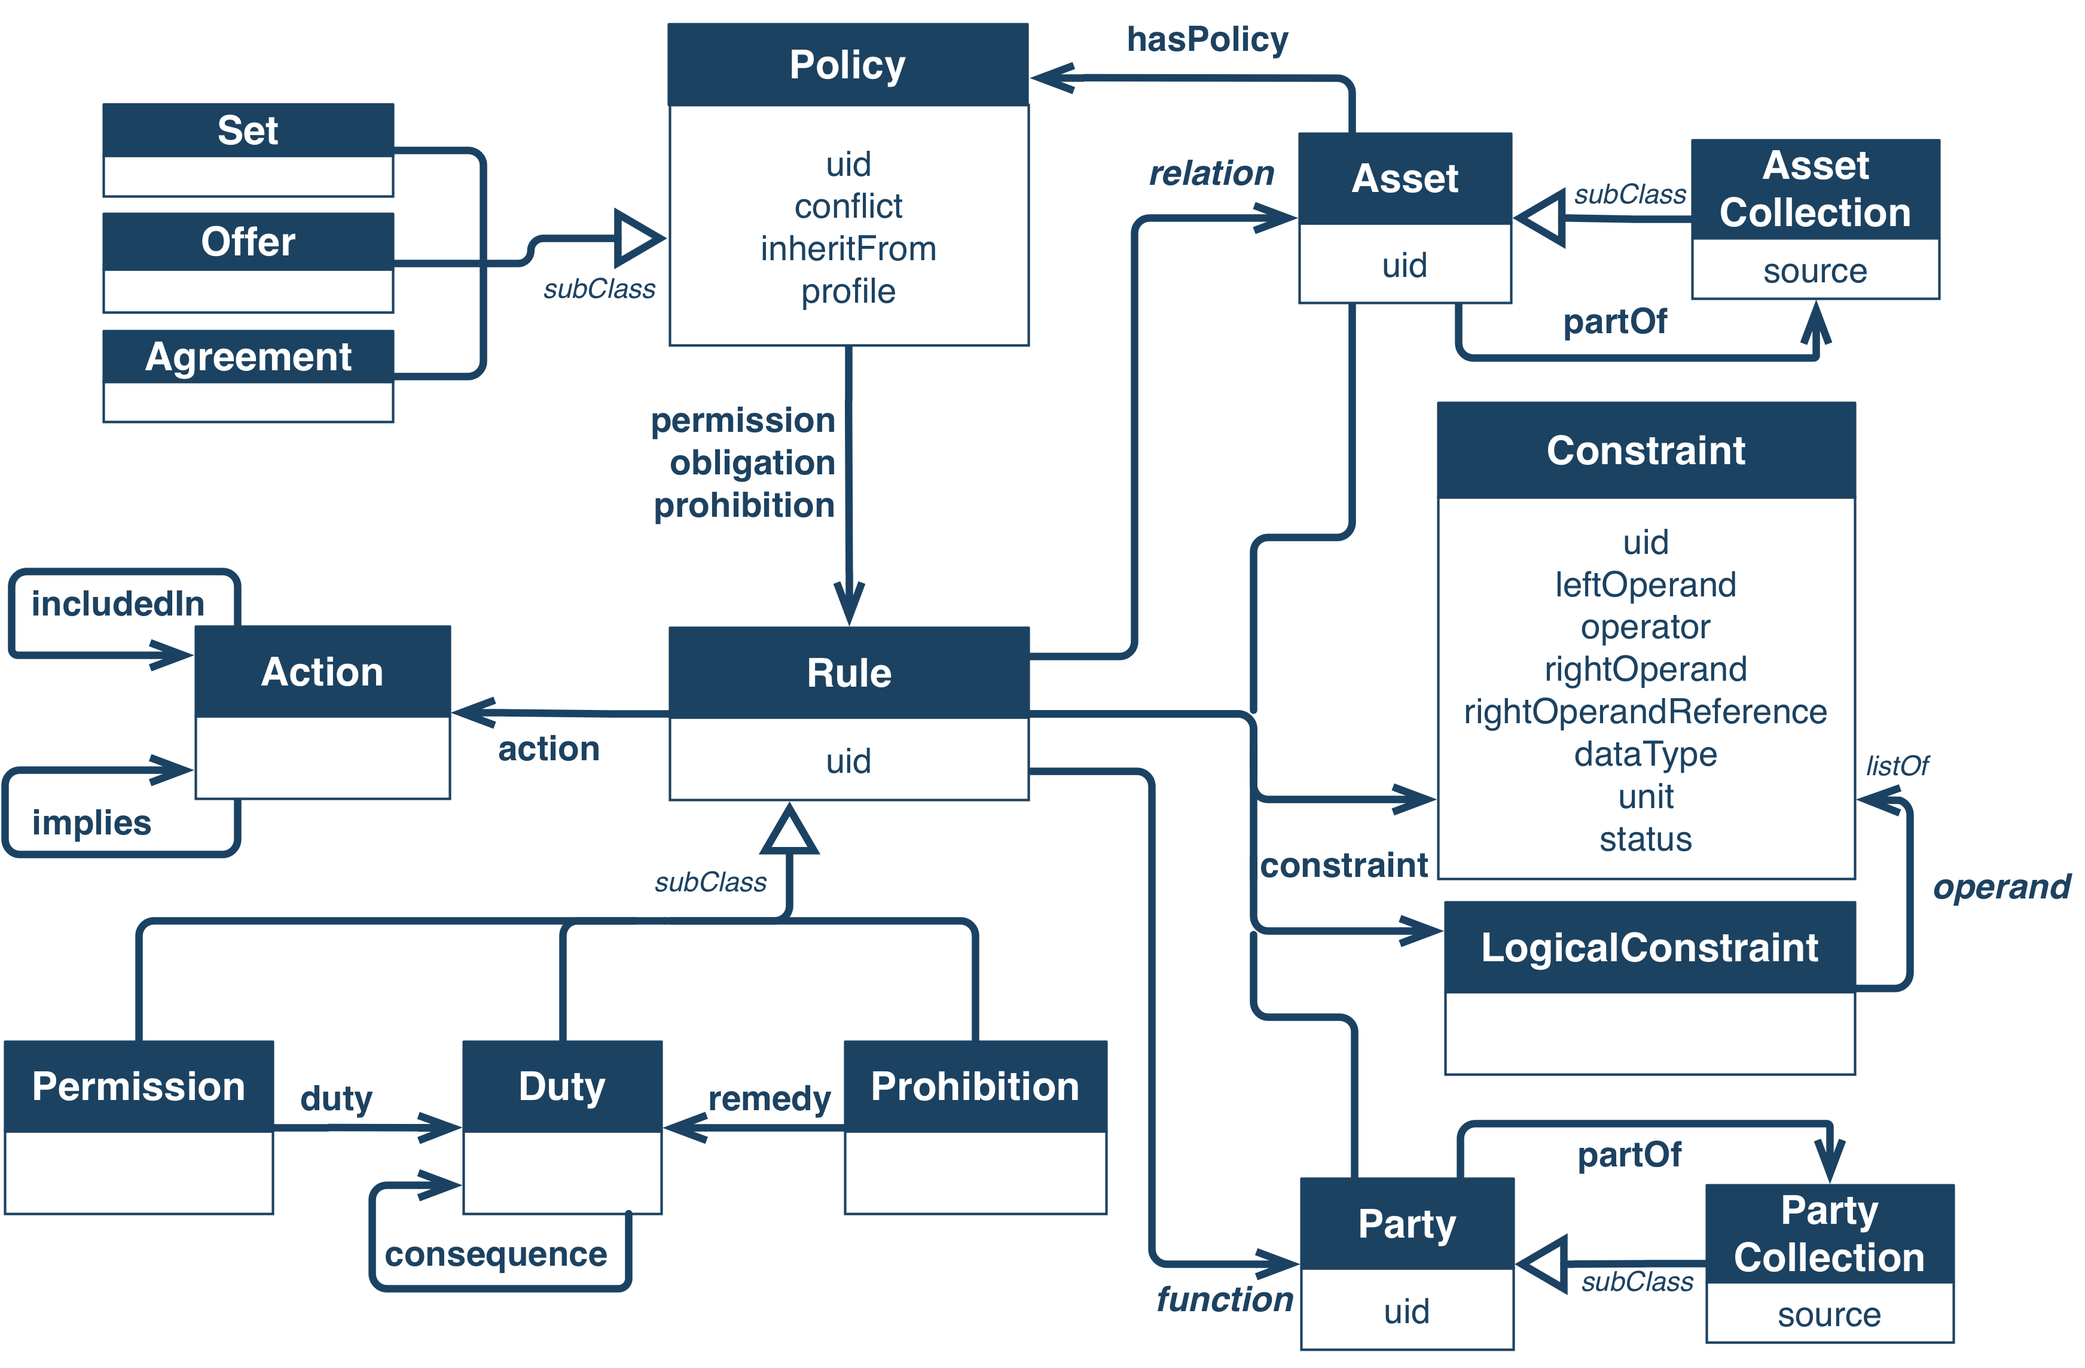
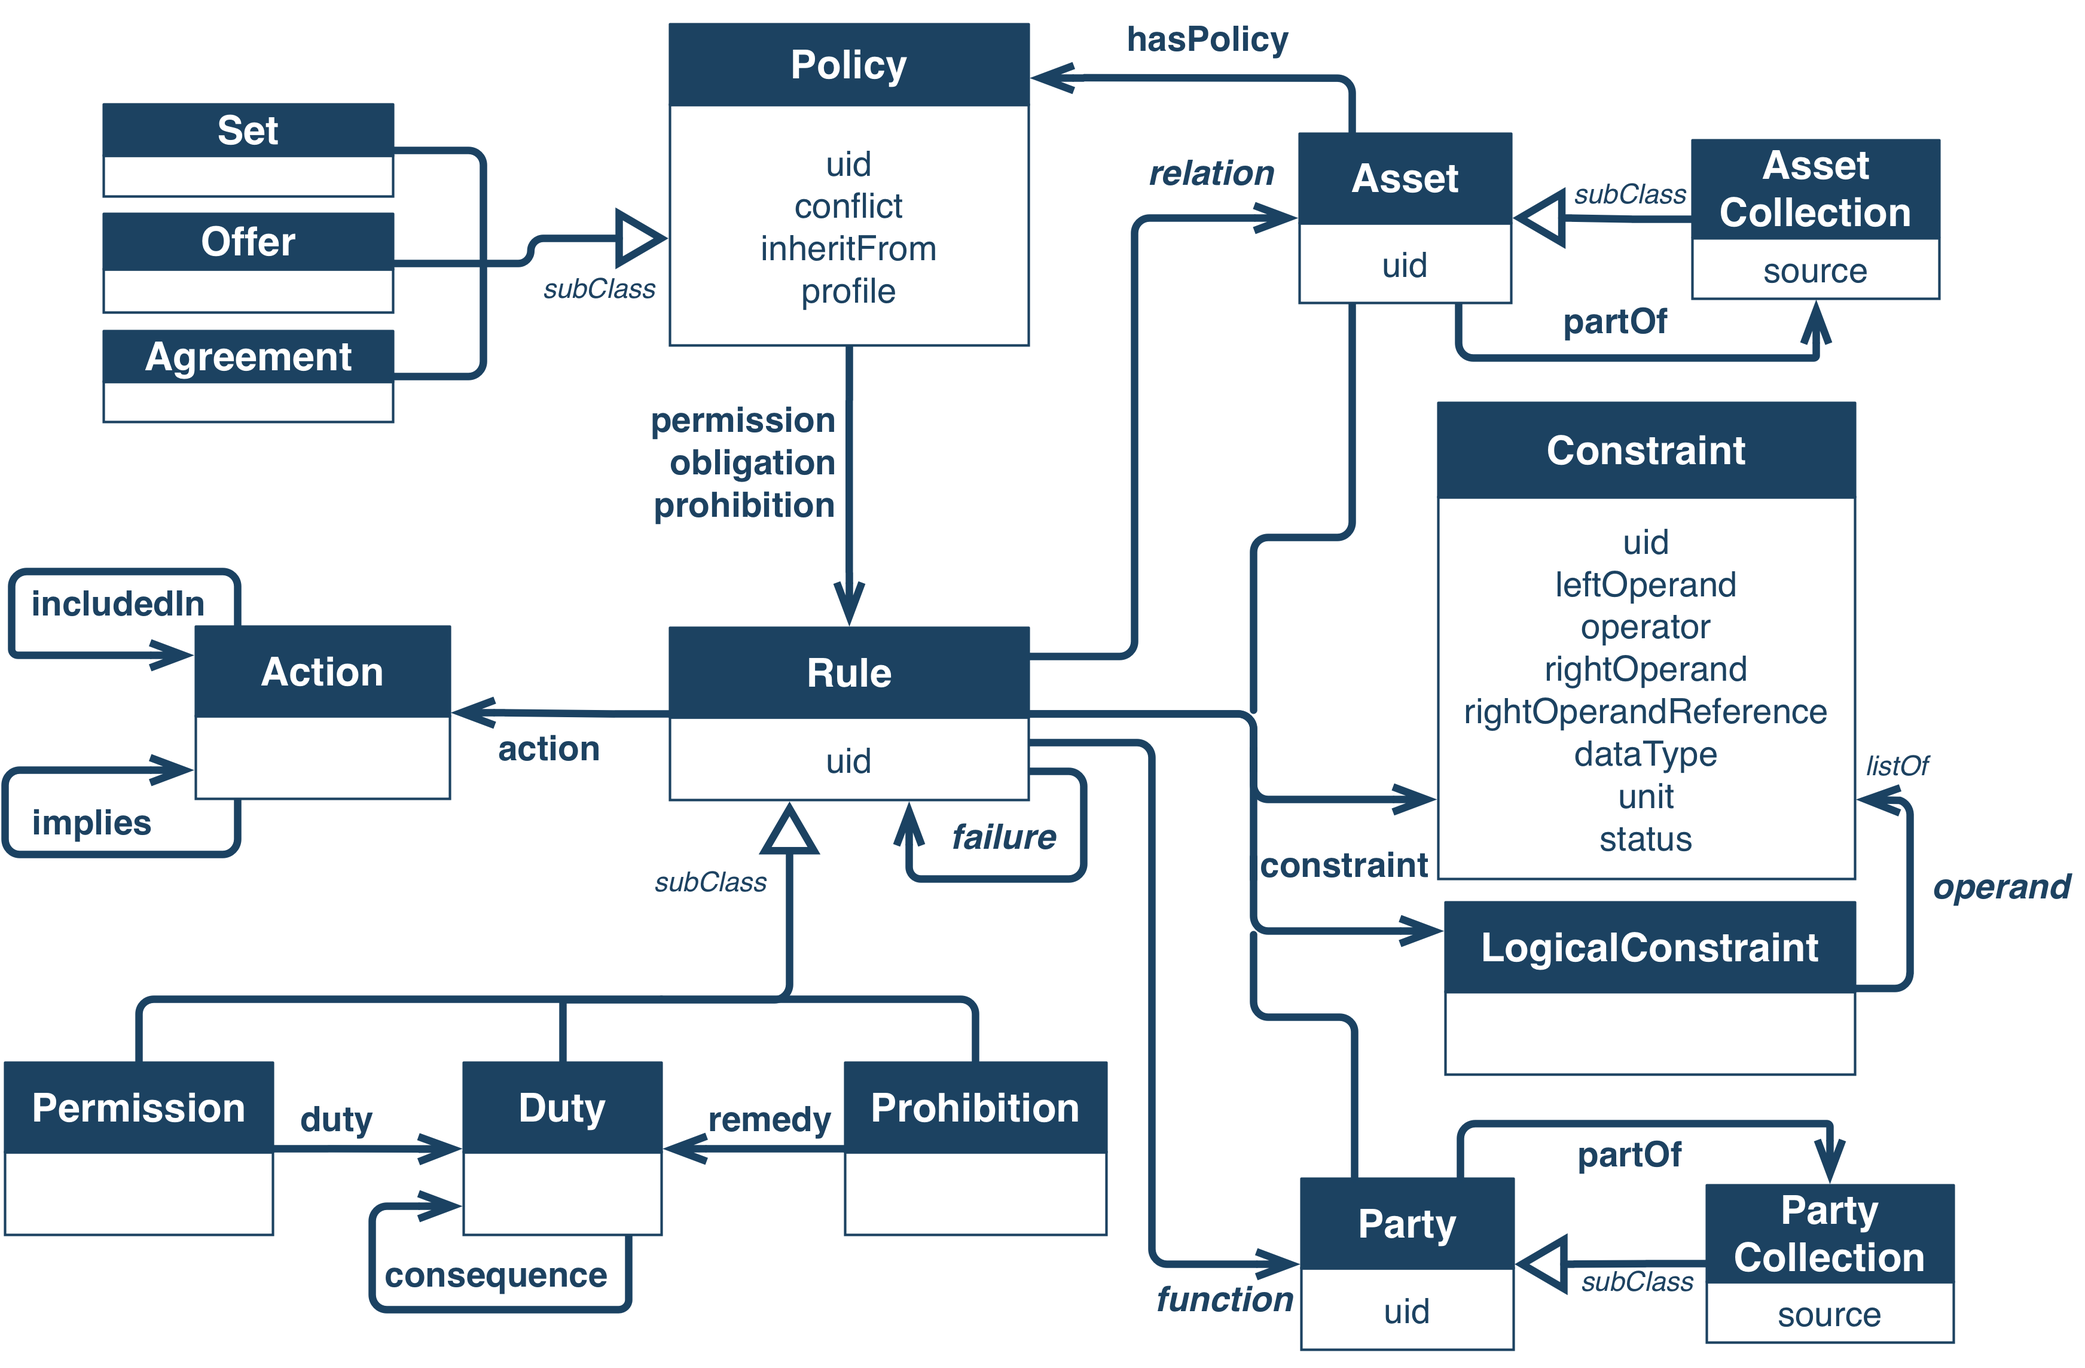
Added Failure property #209

Changed region(s): [[0.0, 0.5278, 0.5575, 0.9624], [0.4646, 0.683, 0.4956, 0.714], [0.4026, 0.031, 0.4336, 0.0621]]

diff --git a/model/index.html b/model/index.html
@@ -136,14 +136,16 @@
     <li><code>Constraint/LogicalConstraint</code> - A boolean/logical expression that refines the applicability of a Rule, or the context of a Party or Asset collection.</li>
     </ul>
 
-<p>The ODRL Information Model has two abstract properties between Rule and the Asset and Party class. These two properties (<em>relation</em> and <em>function</em>) are designed to represent the <em>conceptual</em> relation between the two classes. In serialised ODRL expressions, they MUST be realised as subtypes of their respective parent property.   The figure below shows the ODRL Properties Model with subtypes.</p>
+<p>The ODRL Information Model includes property relationships between the classes. Most are explictly named properties and some are abstract properties (specifically, <em>relation</em>, <em>function</em>, <em>operand</em>, and <em>failure</em>). The abstract properties are generic parent properties that are designed to be represented by  child properties (sub-types) with explicit semantics. </p>
+
+	<p>For example, the two properties <em>relation</em> and <em>function</em> are designed to represent the <em>conceptual</em> relation between the Rule and the Asset and Party classes. In serialised ODRL expressions, they MUST be realised as sub-types of their respective parent property.  The figure below shows the ODRL Properties Model for these two abstract properties.</p>
 
 <figure>
 	<img src="01Properties.svg" alt="ODRL Properties Model" width="800"/>
     <figcaption>ODRL Properties Model (Also available in <a href="01Properties.png">PNG format</a>)</figcaption>
 </figure>
 
-<p>The figure shows the <em>relation</em> property with subtype <strong>target</strong> to express that the Asset is the primary subject of the Rule. The <em>function</em> property has subtype <strong>assigner</strong> to express the Party issuing the Rule, and subtype <strong>assignee</strong> to express the recipient Party of the Rule. 
+<p>The figure shows the <em>relation</em> property with subtype <code>target</code> to express that the Asset is the primary subject of the Rule. The <em>function</em> property has subtype <code>assigner</code> to express the Party issuing the Rule, and subtype <code>assignee</code> to express the recipient Party of the Rule. 
 </p> 
     
     
@@ -645,13 +647,14 @@
 <li>A Rule MUST have one <code>action</code> property for Action.</li>
 	<li>A Rule MAY have none or one <code><em>relation</em></code> sub-properties for Asset.</li>
 	<li>A Rule MAY have none, one or many <code><em>function</em></code> sub-properties for Party.</li>
+	<li>A Rule MAY have none, one or many <code><em>failure</em></code> sub-properties for Rule.</li>
 <li>A Rule MAY have none, one or many <code>constraint</code> properties for Constraint/LogicalConstraint.</li>
 <li>A Rule MAY have none or one <code>uid</code> property identifier (IRI [[!rfc3987]]) to enable the Rule to be referenced by other Rules.</li>
 </ul>
 	
 	<p>Note: The above property cardinalities reflect the normative ODRL Information Model. In some cases, repeat occurrences of some properties are also supported (as described in <a href="#composition">Policy Rule Composition</a> and <a href="#composition-compact">Compact Policy</a>) but the normative atomic Policy is consistent with the above property cardinalities.</p>
 	
-<p>Explicit sub-properties of the abstract <code><em>relation</em></code> and <code><em>function</em></code> properties must be used, the choice depending on the subclass of Rule in question.</p>
+<p>Explicit sub-properties of the abstract <code><em>relation</em></code>, <code><em>relation</em></code> and <code><em>failure</em></code> properties must be used, the choice depending on the subclass of Rule in question.</p>
 
 <p>For a Rule to become effective, all of it's Constraints MUST be satisfied and any applicable relationship to a Duty MUST be fulfilled.</p>
 
@@ -716,7 +719,7 @@
 	<p>Note: The above property cardinalities reflect the normative ODRL Information Model. In some cases, repeat occurrences of some properties are also supported (as described in <a href="#composition">Policy Rule Composition</a> and <a href="#composition-compact">Compact Policy</a>) but the normative atomic Policy is consistent with the above property cardinalities.</p>
 	
 	
-<p>The remedy property expresses an agreed obligation that MUST be fulfilled in the case that the Prohibition has been violated. That is, the remedy property asserts a Duty that must be fulfilled if the Prohibition is exercised.  See the <a href="#duty-prohib">Remedy with a Prohibition</a> section for more details.</p>
+<p>The <code>remedy</code> property (a sub-property of the <code><em>failure</em></code> property) expresses an agreed obligation that MUST be fulfilled in the case that the Prohibition has been violated. That is, the remedy property asserts a Duty that must be fulfilled if the Prohibition is exercised.  See the <a href="#duty-prohib">Remedy with a Prohibition</a> section for more details.</p>
 	
 <p>	
 	For a Prohibition to become effective, all it's constraints MUST be satisfied and all of the Prohibition's remedies MUST be fulfilled (if the Prohibition was violated).</p>
@@ -758,7 +761,7 @@
 <ul>
      <li>A Duty MAY have none or one <code>target</code> property for Asset to indicate the Asset that is the primary subject to which the Duty directly applies. (Other <code><i>relation</i></code> sub-properties for Asset MAY be used.)</li>
 	  <li>A Duty MAY have none or one <code>assigner</code> and/or <code>assignee</code> property function roles for Parties. (Other <code><i>function</i></code> sub-properties for Party MAY be used.)</li> 
-	  <li>A Duty MAY have none or one <code>consequence</code> properties for Duty.</li>
+	  <li>A Duty MAY have none, one or many <code>consequence</code> properties for Duty.</li>
 </ul>
 	
 		
@@ -771,7 +774,7 @@
 		<li>The assignee(s) of the Duty MUST satisfy the Duty.</li>
 	</ul>
   
-<p>The consequence property is utilised to express the repercussions of not fulfilling an agreed Policy obligation or duty for a Permission. If either of these fails to be fulfilled, then this will result in the consequence Duty <strong>also</strong> becoming a new requirement, meaning that the original obligation or duty, as well as the consequence Duty MUST all be fulfilled. For example, if an obligation to provide data by a certain date is not fullfilled, the a consequence of a $100 fine is payable as well.
+<p>The <code>consequence</code> property (a sub-property of the <code><em>failure</em></code> property) is utilised to express the repercussions of not fulfilling an agreed Policy obligation or duty for a Permission. If either of these fails to be fulfilled, then this will result in the consequence Duty <strong>also</strong> becoming a new requirement, meaning that the original obligation or duty, as well as the consequence Duty MUST all be fulfilled. For example, if an obligation to provide data by a certain date is not fullfilled, the a consequence of a $100 fine is payable as well.
 </p>
 
 <p>Note that the consequence property MUST NOT be used on a Duty that is already a consequence for a Permission duty or Policy obligation.</p>
@@ -897,7 +900,7 @@
 <section id="duty-conseq">
 <h3>Consequence property with a Permission Duty</h3>
 
-	<P>A duty of a Permission MAY include a consequence Duty of not fulfilling that duty, or the Permission exercised without fulfilling the duty. See the <a href="#duty">Duty Class </a> section for more about the consequence property.</P>
+	<P>A duty of a Permission MAY include a <code>consequence</code> Duty of not fulfilling that duty, or the Permission exercised without fulfilling the duty. The <code>consequence</code> property is a sub-property of the <code><em>failure</em></code> property. See the <a href="#duty">Duty Class </a> section for more about the consequence property.</P>
 	
 <blockquote>
 <p>Example Use Case: The below Agreement between assigner <code>http://example.com/org:99</code> and assignee <code>http://example.com/person:88</code> allows the assignee to distribute the Asset <code>http://example.com/data:77</code> under the pre-condition they attribute the asset to Party <code>http://australia.gov.au/</code>. If the assignee does not fulfill the duty, or distributes the asset without fulfilling the duty, then the consequence will be that they will also be tracked by <code>http://example.com/dept:100</code>.</p>
@@ -933,7 +936,7 @@
 <section id="duty-prohib">
 <h3>Remedy property with a Prohibition</h3>
 	
-<p>The remedy property expresses an agreed Duty that MUST be fulfilled in case that a Prohibition has been violated by being exercised. If the Prohibition is exercised, then the remedy Duty MUST be fulfilled.</p>
+<p>The <code>remedy</code> property expresses an agreed Duty that MUST be fulfilled in case that a Prohibition has been violated by being exercised. If the Prohibition is exercised, then the remedy Duty MUST be fulfilled. The <code>remedy</code> property is a sub-property of the <code><em>failure</em></code> property.</p>
 	
 	<p>Note that if there is no remedy property declared for a Prohibition, then the Prohibition MUST NOT be  exercised. A remedy MUST NOT refer to a Duty that includes a consequence Duty.</p>
 	
@@ -1837,7 +1840,7 @@ The ODRL Information Model was derived from the ODRL V2.1 Core Model Community G
 	
 	<li>Added support for Duty at Policy-level using new obligation property <a href="https://github.com/w3c/poe/issues/191">(Issue#191)</a></li>
 			
-	<li>Added Consequence and Remedy properties <a href="https://github.com/w3c/poe/issues/209">(Issue#209)</a></li>
+	<li>Added Consequence, Remedy, and Failure properties <a href="https://github.com/w3c/poe/issues/209">(Issue#209)</a></li>
 			
 	<li>Added mandatory use of ODRL Profiles <a href="https://github.com/w3c/poe/issues/210">(Issue#210)</a></li>
 			

diff --git a/vocab/index.html b/vocab/index.html
@@ -10,7 +10,8 @@
 	<body>
 <section id="abstract">
  
-    <p>The Open Digital Rights Language (ODRL) provides a flexible and interoperable information model, vocabulary, and encoding mechanisms for describing  statements about content usage. The ODRL Vocabulary and Expression describes the terms used in such statements and how to encode them.</p>
+    <p>The Open Digital Rights Language (ODRL) is a policy expression language that provides a flexible and interoperable information model, vocabulary, and encoding mechanisms for representing statements about the usage of content and services.
+	The ODRL Vocabulary and Expression describes the terms used in ODRL policies and how to encode them.</p>
 </section>
 <section id="sotd">
 <p>
@@ -162,7 +163,8 @@
   <tr><th>Identifier:</th> <td><a href="http://www.w3.org/ns/odrl/2/Rule">http://www.w3.org/ns/odrl/2/Rule</a></td></tr>
 <tr><th>Note:</th> <td>Rule is an abstract concept.</td></tr>
 <tr><th>Sub-classes:</th> <td><a href="#term-Duty">Duty</a>, <a href="#term-Permission">Permission</a>, <a href="#term-Prohibition">Prohibition</a></td></tr>
-  <tr><th>Properties:</th> <td><a href="#term-output">output</a>, <a href="#term-uid">uid</a>, <a href="#term-relation">relation</a>, <a href="#term-target">target</a>, <a href="#term-function">function</a>, <a href="#term-action">action</a>, <a href="#term-constraint">constraint</a>, <a href="#term-assignee">assignee</a>, <a href="#term-assigner">assigner</a></td></tr>
+  <tr><th>Properties:</th> <td><a href="#term-output">output</a>, <a href="#term-failure">failure</a>, <a href="#term-uid">uid</a>, <a href="#term-relation">relation</a>, <a href="#term-target">target</a>, <a href="#term-function">function</a>, <a href="#term-action">action</a>, <a href="#term-constraint">constraint</a>, <a href="#term-assignee">assignee</a>, <a href="#term-assigner">assigner</a></td></tr>
+  <tr><th>In Range Of:</th> <td><a href="#term-failure">failure</a></td></tr>
 </table>
 </section><section id="term-relation"><h3>Relation</h3><table class='def propdef' >
 <tr><th>Definition:</th> <td>Relation is an abstract property which creates an explicit link between an Action and an Asset.</td></tr>
@@ -180,6 +182,15 @@
 <tr><th>Sub-properties:</th> <td><a href="#term-assignee">assignee</a>, <a href="#term-assigner">assigner</a>, <a href="#term-attributedParty">attributedParty</a>, <a href="#term-attributingParty">attributingParty</a>, <a href="#term-compensatedParty">compensatedParty</a>, <a href="#term-compensatingParty">compensatingParty</a>, <a href="#term-consentedParty">consentedParty</a>, <a href="#term-consentingParty">consentingParty</a>, <a href="#term-contractedParty">contractedParty</a>, <a href="#term-contractingParty">contractingParty</a>, <a href="#term-informedParty">informedParty</a>, <a href="#term-informingParty">informingParty</a>, <a href="#term-trackedParty">trackedParty</a>, <a href="#term-trackingParty">trackingParty</a></td></tr>
 <tr><th>Domain:</th> <td><a href="#term-Policy">Policy</a>, <a href="#term-Rule">Rule</a></td></tr>
 <tr><th>Range:</th> <td><a href="#term-Party">Party</a></td></tr>
+</table>
+</section><section id="term-failure"><h3>Failure</h3><table class='def propdef' >
+<tr><th>Definition:</th> <td>Failure is an abstract property that defines the violation (or unmet) relationship between Rules.</td></tr>
+<tr><th>Label:</th> <td>Failure</td></tr>
+  <tr><th>Identifier:</th> <td><a href="http://www.w3.org/ns/odrl/2/failure">http://www.w3.org/ns/odrl/2/failure</a></td></tr>
+<tr><th>Note:</th> <td>The parent property to subproperties that express explicit failure contexts.</td></tr>
+<tr><th>Sub-properties:</th> <td><a href="#term-consequence">consequence</a>, <a href="#term-remedy">remedy</a></td></tr>
+<tr><th>Domain:</th> <td><a href="#term-Rule">Rule</a></td></tr>
+<tr><th>Range:</th> <td><a href="#term-Rule">Rule</a></td></tr>
 </table>
 </section></section><section id="assetConcepts"><h2>Asset</h2><section id="term-Asset"><h3>Asset</h3><table class='def propdef' >
 <tr><th>Definition:</th> <td>A resource or a collection of resources that are the subject of a Rule.</td></tr>
@@ -400,6 +411,7 @@
 <tr><th>Label:</th> <td>Has Consequence</td></tr>
   <tr><th>Identifier:</th> <td><a href="http://www.w3.org/ns/odrl/2/consequence">http://www.w3.org/ns/odrl/2/consequence</a></td></tr>
 <tr><th>Note:</th> <td>The consequence property is utilised to express the repercussions of not fulfilling an agreed obligation (for a Policy) or duty (for a Permission).</td></tr>
+<tr><th>Parent property:</th> <td><a href="#term-failure">failure</a></td></tr>
 <tr><th>Domain:</th> <td><a href="#term-Duty">Duty</a></td></tr>
 <tr><th>Range:</th> <td><a href="#term-Duty">Duty</a></td></tr>
 </table>
@@ -408,6 +420,7 @@
 <tr><th>Label:</th> <td>Has Remedy</td></tr>
   <tr><th>Identifier:</th> <td><a href="http://www.w3.org/ns/odrl/2/remedy">http://www.w3.org/ns/odrl/2/remedy</a></td></tr>
 <tr><th>Note:</th> <td>The remedy property expresses an agreed Duty that must be fulfilled in case that a Prohibition has been violated by being exercised.</td></tr>
+<tr><th>Parent property:</th> <td><a href="#term-failure">failure</a></td></tr>
 <tr><th>Domain:</th> <td><a href="#term-Prohibition">Prohibition</a></td></tr>
 <tr><th>Range:</th> <td><a href="#term-Duty">Duty</a></td></tr>
 </table>
@@ -1870,7 +1883,7 @@ All new ODRL implementations are expected to use the deliverables of the W3C Per
 	
 		<li>Added support for Duty at Policy-level using new obligation property <a href="https://github.com/w3c/poe/issues/191">(Issue#191)</a></li>
 	
-		<li>Added Consequence and Remedy properties <a href="https://github.com/w3c/poe/issues/209">(Issue#209)</a></li>
+		<li>Added Consequence, Remedy and Failure properties <a href="https://github.com/w3c/poe/issues/209">(Issue#209)</a></li>
 		
 		<li>Added mandatory use of ODRL Profiles <a href="https://github.com/w3c/poe/issues/210">(Issue#210)</a></li>
 	

diff --git a/vocab/parts/changes.html b/vocab/parts/changes.html
@@ -66,7 +66,7 @@
 	
 		<li>Added support for Duty at Policy-level using new obligation property <a href="https://github.com/w3c/poe/issues/191">(Issue#191)</a></li>
 	
-		<li>Added Consequence and Remedy properties <a href="https://github.com/w3c/poe/issues/209">(Issue#209)</a></li>
+		<li>Added Consequence, Remedy and Failure properties <a href="https://github.com/w3c/poe/issues/209">(Issue#209)</a></li>
 		
 		<li>Added mandatory use of ODRL Profiles <a href="https://github.com/w3c/poe/issues/210">(Issue#210)</a></li>
 	

diff --git a/model/config.js b/model/config.js
@@ -1,7 +1,7 @@
 var respecConfig = {
         specStatus: "ED",
         shortName:  "odrl-model",
-        publishDate:          "2017-08-15",
+        publishDate:          "2017-08-17",
         editors: [
             {   name:       "Renato Iannella",
                     url:        "https://au.linkedin.com/in/riannella",

diff --git a/vocab/config.js b/vocab/config.js
@@ -1,7 +1,7 @@
 var respecConfig = {
     specStatus: "ED",
     shortName: "odrl-vocab",
-    publishDate:  "2017-08-12",
+    publishDate:  "2017-08-17",
     edDraftURI: "https://w3c.github.io/poe/vocab/",
     editors: [
         {    name:       "Renato Iannella",
